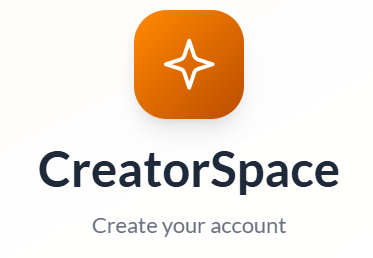
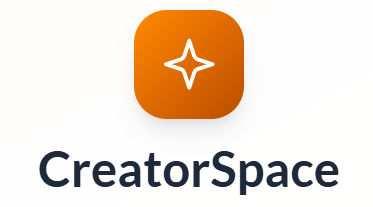
Thanh toán Payos với quản lý admin

Changed region(s): [[0.0885, 0.1449, 0.9142, 0.9565], [0.3834, 0.029, 0.6783, 0.1739], [0.3539, 0.087, 0.3834, 0.1739]]

diff --git a/src/services/paymentService.js b/src/services/paymentService.js
@@ -1,5 +1,11 @@
 import mongoose from 'mongoose';
 import Payment from '../models/payment.js';
+import Subscription from '../models/subscription.js';
+import Plan from '../models/plan.js';
+import dotenv from 'dotenv';
+import payOS from '../config/payos.js';
+
+dotenv.config();
 
 const isValidObjectId = (id) => mongoose.Types.ObjectId.isValid(id);
 
@@ -9,6 +15,7 @@ const buildValidationError = (message) => {
     return error;
 };
 
+// 1. KHÔI PHỤC LẠI HÀM GỐC
 const createPayment = async (data) => {
     const requiredFields = ['userId', 'amount', 'method'];
     const missingField = requiredFields.find((field) => data?.[field] === undefined || data?.[field] === null || data?.[field] === '');
@@ -28,7 +35,7 @@ const createPayment = async (data) => {
     return await Payment.create({
         userId: data.userId,
         subscriptionId: data.subscriptionId,
-        planId: data.planId, 
+        planId: data.planId,
         planSnapshot: data.planSnapshot,
         amount: data.amount,
         method: data.method,
@@ -109,10 +116,98 @@ const deletePayment = async (id) => {
     return { deleted: true };
 };
 
+// 2. HÀM TẠO LINK PAYOS CHUẨN
+const createPayOSLink = async (userId, planId, amount) => {
+    const plan = await Plan.findById(planId);
+    if (!plan) {
+        throw new Error('Không tìm thấy gói dịch vụ này trong hệ thống.');
+    }
+
+    const orderCode = Number(String(Date.now()).slice(-6) + Math.floor(Math.random() * 100));
+
+    const frontendUrl = process.env.FRONTEND_URL || 'http://localhost:5173';
+
+    const body = {
+        orderCode: orderCode,
+        amount: amount,
+        description: `Nang cap ${orderCode}`, 
+        cancelUrl: `${frontendUrl}/workspace/settings?status=cancel`,
+        returnUrl: `${frontendUrl}/workspace/settings?status=success`
+    };
+
+    const paymentLinkResponse = await payOS.paymentRequests.create(body);
+
+    await Payment.create({
+        userId: userId,
+        planId: planId,
+        amount: amount,
+        method: 'PAYOS',
+        status: 'PENDING',
+        transactionRef: String(orderCode),
+        planSnapshot: {
+            name: plan.name,
+            price: plan.price
+        }
+    });
+
+    return paymentLinkResponse;
+};
+
+// 3. HÀM XỬ LÝ WEBHOOK KHI KHÁCH QUÉT MÃ XONG
+const handlePayOSWebhook = async (webhookBody) => {
+    try {
+        const webhookData = await payOS.webhooks.verify(webhookBody);
+
+        if (webhookData.code === '00') {
+            const orderCode = webhookData.orderCode;
+
+            const payment = await Payment.findOne({ transactionRef: String(orderCode) });
+
+            if (!payment || payment.status === 'SUCCESS') {
+                return { status: 'Ignored' };
+            }
+
+            payment.status = 'SUCCESS';
+            await payment.save();
+
+            let subscription = await Subscription.findOne({
+                userId: payment.userId,
+                status: 'ACTIVE'
+            });
+
+            const now = new Date();
+            const expireDate = new Date();
+            expireDate.setDate(now.getDate() + 30);
+
+            if (subscription) {
+                subscription.planId = payment.planId;
+                subscription.endDate = expireDate;
+            } else {
+                subscription = await Subscription.create({
+                    userId: payment.userId,
+                    planId: payment.planId,
+                    status: 'ACTIVE',
+                    startDate: now,
+                    endDate: expireDate
+                });
+            }
+
+            await subscription.save();
+
+            return { success: true };
+        }
+    } catch (error) {
+        console.error('Lỗi Webhook PayOS:', error);
+        throw error;
+    }
+};
+
 export default {
     createPayment,
     getAllPayments,
     getPaymentById,
+    createPayOSLink,
+    handlePayOSWebhook,
     updatePayment,
     deletePayment,
 };

diff --git a/src/route/authRoutes.js b/src/route/authRoutes.js
@@ -10,6 +10,8 @@ import { body } from 'express-validator';
 import upload from '../middlewares/upload.js';
 import { login, refreshToken, logout } from '../controller/authController.js';
 import User from '../models/user.js'; 
+import Payment from '../models/payment.js';
+import Subscription from '../models/subscription.js';
 
 const router = express.Router();
 
@@ -19,12 +21,9 @@ router.post('/verify-otp', authController.verifyOTP);
 router.post('/login', loginLimiter, body('email').isEmail(), body('password').isLength({ min: 6 }), login);
 router.post('/refresh-token', refreshToken);
 router.post('/logout', authMiddleware, logout);
-// ==========================================
-// ĐÃ SỬA: LẤY DỮ LIỆU TỪ DATABASE THAY VÌ TOKEN CŨ
-// ==========================================
+
 router.get('/user/profile', authMiddleware, authorizeRole('user'), async (req, res) => {
     try {
-        // Dùng id từ token để tìm user trong MongoDB, loại bỏ field password cho an toàn
         const user = await User.findById(req.user.id).select('-password');
         res.json({ message: 'Welcome user', user: user });
     } catch (error) {
@@ -40,8 +39,10 @@ router.get('/admin/profile', authMiddleware, authorizeRole('admin'), async (req,
         res.status(500).json({ message: 'Lỗi server khi lấy profile admin' });
     }
 });
-// ==========================================
 
+// ==========================================
+// ĐÃ SỬA: BƠM THÊM DỮ LIỆU GÓI CƯỚC (POPULATE)
+// ==========================================
 router.get('/all-users', authMiddleware, authorizeRole('admin'), async (req, res) => {
     try {
         const searchQuery = req.query.search || '';
@@ -65,19 +66,39 @@ router.get('/all-users', authMiddleware, authorizeRole('admin'), async (req, res
 
         const skip = (page - 1) * limit;
 
+        // 1. Lấy danh sách User (dùng .lean() để biến thành object Javascript thuần)
         const [users, totalUsers] = await Promise.all([
             User.find(query)
                 .select('-password')
                 .sort(sortConfig)
                 .skip(skip)
-                .limit(limit),
+                .limit(limit)
+                .lean(), 
             User.countDocuments(query)
         ]);
+
+        // 2. Lấy ra danh sách các ID của những user vừa tìm được
+        const userIds = users.map(user => user._id);
+
+        // 3. Tìm các gói Subscription tương ứng với các user đó (Chỉ lấy gói ACTIVE)
+        const subscriptions = await Subscription.find({ 
+            userId: { $in: userIds },
+            status: 'ACTIVE'
+        }).populate({ path: 'planId', select: 'name' }).lean();
+
+        // 4. Ghép thông tin gói vào từng User
+        const usersWithPlan = users.map(user => {
+            const userSub = subscriptions.find(sub => String(sub.userId) === String(user._id));
+            return {
+                ...user,
+                subscription: userSub || null // Nếu có gói thì nhét vào, không thì null
+            };
+        });
 
         res.json({
             errCode: 0,
             data: {
-                users,
+                users: usersWithPlan,
                 pagination: {
                     currentPage: page,
                     pageSize: limit,
@@ -92,6 +113,58 @@ router.get('/all-users', authMiddleware, authorizeRole('admin'), async (req, res
             errCode: 1,
             message: 'Lỗi server'
         });
+    }
+});
+
+router.get('/admin/dashboard-stats', authMiddleware, authorizeRole('admin'), async (req, res) => {
+    try {
+        // 1. Tổng user (Chỉ đếm role 'user')
+        const totalUsers = await User.countDocuments({ role: 'user' });
+
+        // 2. Tổng Pro (Chỉ đếm các subscription đang ACTIVE)
+        const proUsers = await Subscription.countDocuments({ status: 'ACTIVE' });
+
+        // 3. Tổng doanh thu (Tính tổng tiền các hóa đơn SUCCESS)
+        const payments = await Payment.find({ status: 'SUCCESS' }).lean();
+        const totalRevenue = payments.reduce((sum, p) => sum + (p.amount || 0), 0);
+
+        // 4. Doanh thu 6 tháng gần nhất
+        const revenueData = [];
+        for (let i = 5; i >= 0; i--) {
+            const d = new Date();
+            d.setMonth(d.getMonth() - i);
+            const monthStr = `Tháng ${d.getMonth() + 1}`;
+            
+            // Tìm các khoản thu trong tháng đó
+            const monthPayments = payments.filter(p => {
+                const pDate = new Date(p.createdAt);
+                return pDate.getMonth() === d.getMonth() && pDate.getFullYear() === d.getFullYear();
+            });
+            const monthRevenue = monthPayments.reduce((sum, p) => sum + (p.amount || 0), 0);
+            
+            revenueData.push({ month: monthStr, revenue: monthRevenue });
+        }
+
+        // 5. Tỉ lệ gói (FREE vs PRO)
+        const freeUsers = totalUsers - proUsers;
+        const planData = [
+            { name: 'Gói FREE', value: freeUsers > 0 ? freeUsers : 0 },
+            { name: 'Gói PRO', value: proUsers }
+        ];
+
+        res.json({
+            errCode: 0,
+            data: {
+                totalUsers,
+                activeSubscriptions: proUsers,
+                totalRevenue,
+                revenueData,
+                planData
+            }
+        });
+    } catch (error) {
+        console.error('Lỗi lấy thống kê Dashboard:', error);
+        res.status(500).json({ errCode: 1, message: 'Lỗi server' });
     }
 });
 

diff --git a/src/controller/paymentController.js b/src/controller/paymentController.js
@@ -50,10 +50,52 @@ const deletePayment = async (req, res) => {
     }
 };
 
+const createPayOSLink = async (req, res) => {
+    try {
+        const { planId, amount } = req.body;
+        const userId = req.user._id || req.user.id;
+
+        const linkData = await paymentService.createPayOSLink(
+            userId,
+            planId,
+            amount
+        );
+
+        return res.status(200).json({
+            errCode: 0,
+            data: linkData
+        });
+    } catch (error) {
+        console.error("LỖI KHI TẠO LINK PAYOS:", error);
+        return res.status(500).json({
+            errCode: 1,
+            message: error.message
+        });
+    }
+};
+
+const handleWebhook = async (req, res) => {
+    try {
+        await paymentService.handlePayOSWebhook(req.body);
+
+        return res.status(200).json({
+            errCode: 0,
+            message: 'Webhook đã xử lý'
+        });
+    } catch (error) {
+        return res.status(200).json({
+            errCode: 1,
+            message: error.message
+        });
+    }
+};
+
 export default {
     createPayment,
     getAllPayments,
     getPaymentById,
     updatePayment,
     deletePayment,
+    createPayOSLink,
+    handleWebhook
 };

diff --git a/src/server.js b/src/server.js
@@ -30,6 +30,10 @@ import socketService from "./services/socketService.js";
 import ttsRoutes from "./route/ttsRoutes.js";
 import aiRoutes from './route/aiRoutes.js';
 
+// THÊM IMPORT CRON VÀ MODEL PAYMENT VÀO ĐÂY
+import cron from 'node-cron';
+import Payment from './models/payment.js'; 
+
 // Load environment variables
 dotenv.config();
 
@@ -88,6 +92,35 @@ app.use("/test",testRoutes);
 // Health check route
 app.get("/", (req, res) => {
     res.send("SMM Project API is working!");
+});
+
+// =========================
+// CRON JOBS LÊN LỊCH TỰ ĐỘNG
+// =========================
+
+// Cài đặt chạy mỗi giờ 1 lần để hủy các đơn PENDING quá hạn
+cron.schedule('0 * * * *', async () => {
+    try {
+        // Lấy mốc thời gian: Đúng 24 giờ trước so với hiện tại
+        const twentyFourHoursAgo = new Date(Date.now() - 24 * 60 * 60 * 1000);
+        
+        // Quét DB: Tìm các đơn PENDING được tạo trước mốc 24h và đổi thành CANCELLED
+        const result = await Payment.updateMany(
+            { 
+                status: 'PENDING', 
+                createdAt: { $lt: twentyFourHoursAgo } 
+            },
+            { 
+                $set: { status: 'CANCELLED' } 
+            }
+        );
+        
+        if (result.modifiedCount > 0) {
+            console.log(`[Cron] Đã tự động dọn dẹp ${result.modifiedCount} giao dịch PENDING quá 24h.`);
+        }
+    } catch (error) {
+        console.error('[Cron] Lỗi khi dọn dẹp giao dịch PENDING:', error);
+    }
 });
 
 // =========================

diff --git a/src/config/payos.js b/src/config/payos.js
@@ -1,0 +1,14 @@
+import { PayOS } from '@payos/node';
+import dotenv from 'dotenv';
+
+dotenv.config();
+
+const payOS = new PayOS(
+    {
+        clientId: process.env.PAYOS_CLIENT_ID,
+        apiKey: process.env.PAYOS_API_KEY,
+        checksumKey: process.env.PAYOS_CHECKSUM_KEY,
+    }
+);
+
+export default payOS;

diff --git a/src/route/paymentRoutes.js b/src/route/paymentRoutes.js
@@ -1,5 +1,6 @@
 import express from 'express';
 import paymentController from '../controller/paymentController.js';
+import authMiddleware from '../middlewares/authMiddleware.js';
 
 const router = express.Router();
 
@@ -8,5 +9,7 @@ router.get('/', paymentController.getAllPayments);
 router.get('/:id', paymentController.getPaymentById);
 router.put('/:id', paymentController.updatePayment);
 router.delete('/:id', paymentController.deletePayment);
+router.post('/create-payos-link', authMiddleware, paymentController.createPayOSLink);
+router.post('/webhook', paymentController.handleWebhook);
 
 export default router;